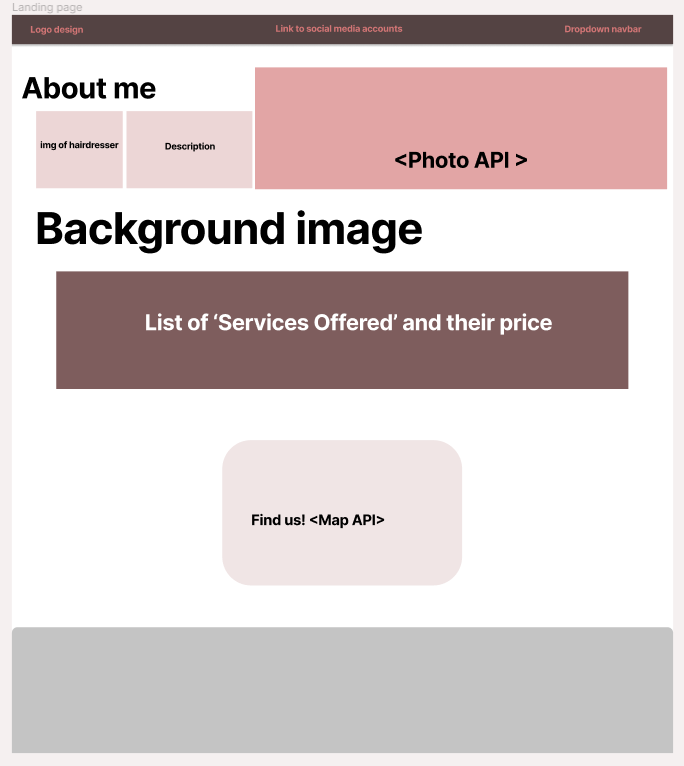
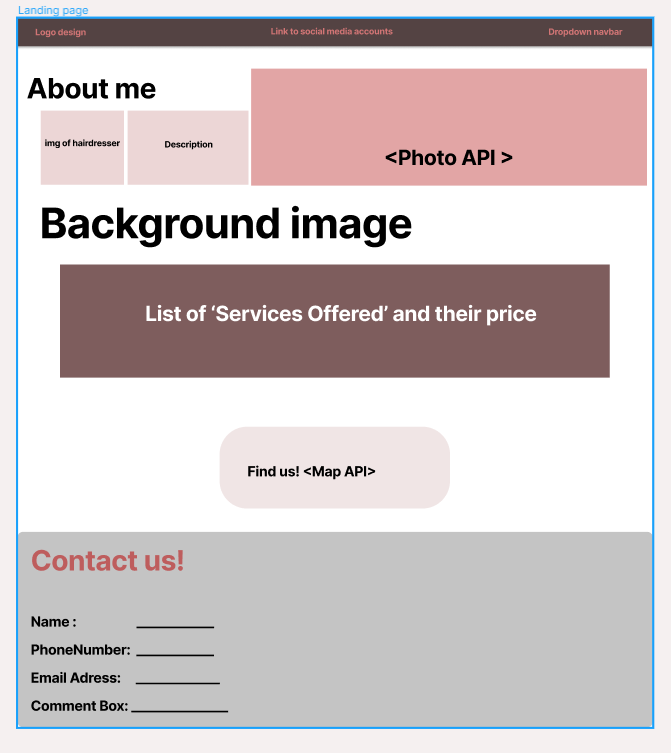
"README update"

diff --git a/README.md b/README.md
@@ -12,7 +12,7 @@
 
 ## Project Description
 
-Web application for a hairdresser’s clients. Her clients can visit this page to see the services she offers as well as her previous work through a collage of photos directly from the hairdresser’s Facebook page. Clients can also look at the location of the salon with the option to navigate there with Google Maps. 
+Web application for a hairdresser’s clients. Her clients can visit this page to see the services she offers as well as her previous work through a collage of photos directly from the hairdresser’s Facebook page. Clients can leave their contact information so that the hairdresser can get in touch with them. The client's information will be saved in local storage to thank the client for their submission and to personalize the page for them for when they revisit. Clients can also look at the location of the salon with the option to navigate there with Google Maps. 
 
 
 ## User Story
@@ -24,6 +24,8 @@ I WANT to visit this webpage
 SO THAT I can see what services are offered
 I WANT to see photos of the hairdresser’s work
 SO THAT I can select a hair style for myself
+I WANT to submit my contact information 
+SO THAT I can get in touch with the hairdresser for an appointment
 I WANT to see the salon’s location and options for navigation 
 SO THAT I can find the salon
 ```
@@ -45,6 +47,7 @@ The link to our wireframe can be found on Figma at the following link:
 
 * Create HTML and apply CSS with Bulma- Miguel
 * JavaScript- fetch request, navigation links - Ricky
+* Local Storage - Ricky and Paola
 * APIs research for url parameters and getting data for JSON response
     * Google Maps - Paola
     * Facebook Photos - Joseph
